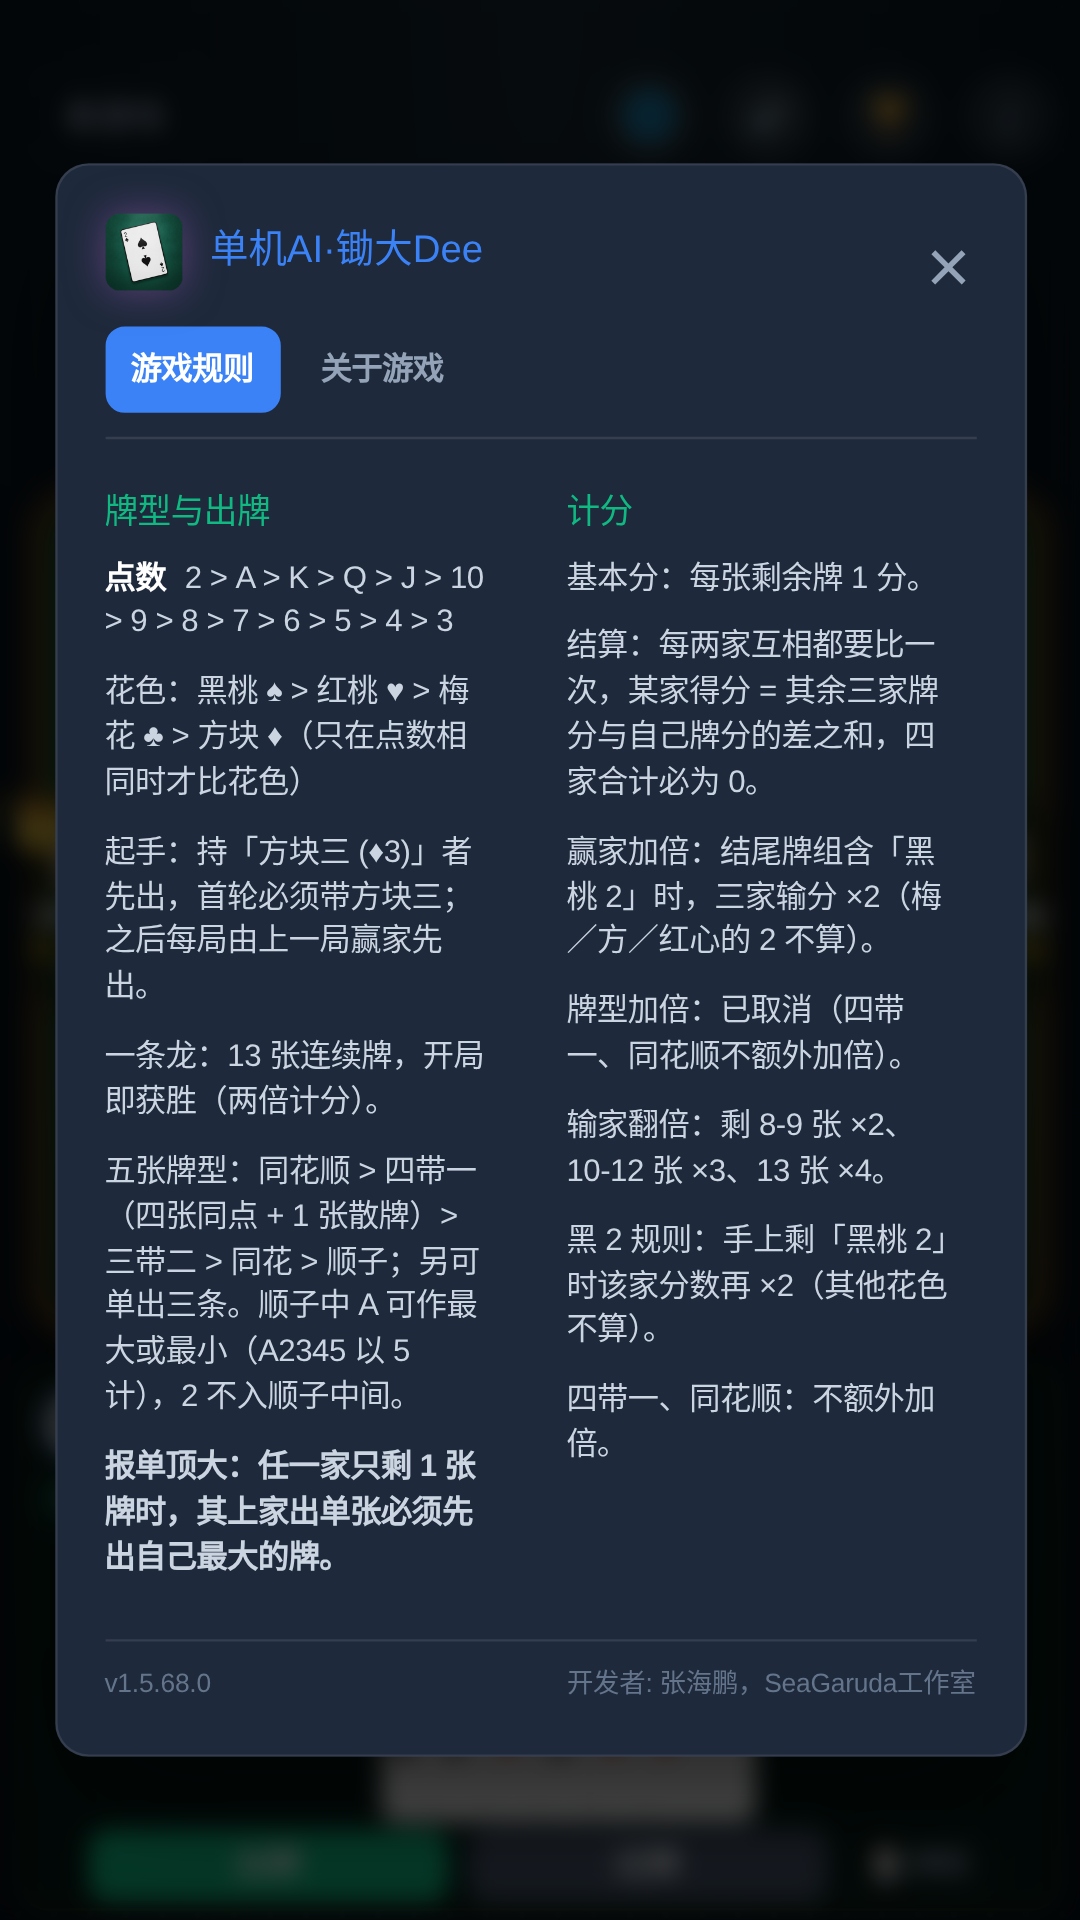
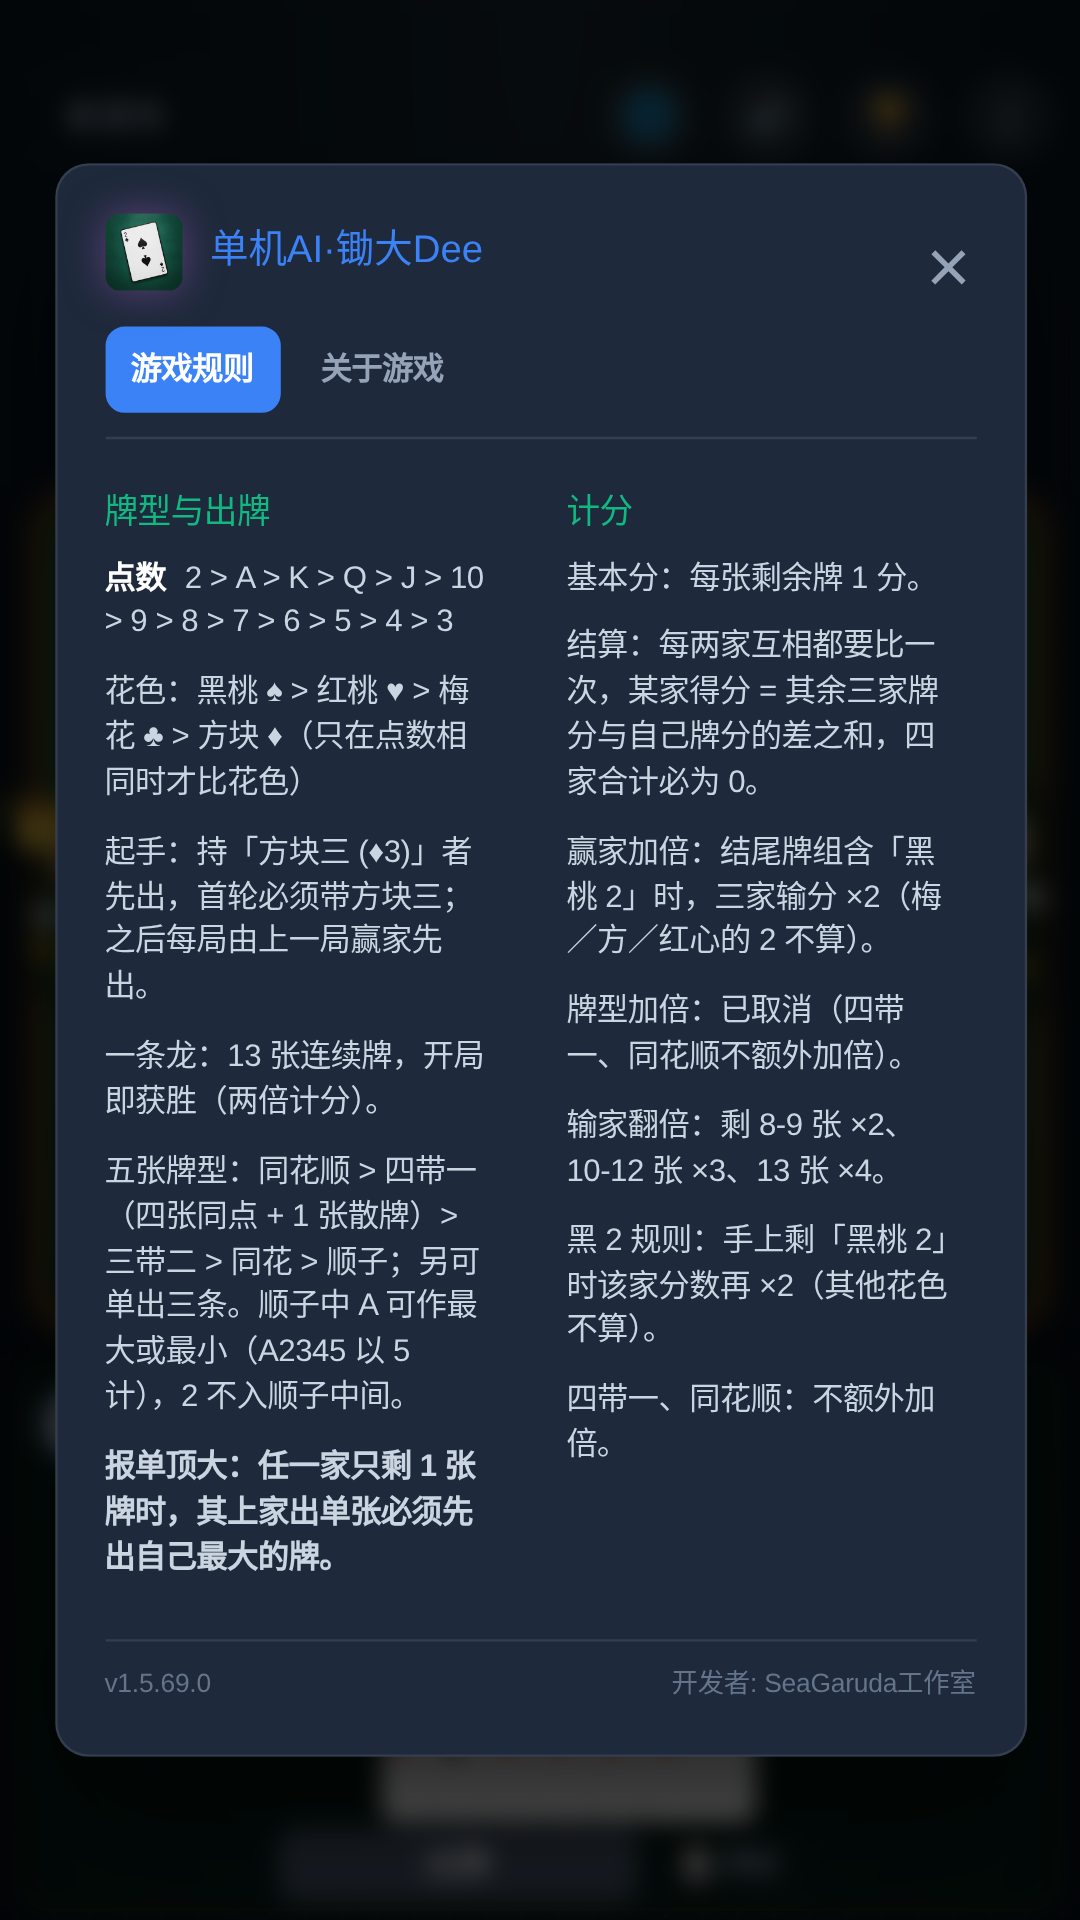
1.5.69 vc53: clean store screenshots (no real name), bump in-app version, images upload purges slot first

diff --git a/src/version.js b/src/version.js
@@ -1,6 +1,6 @@
 // Automatically generated by stamp-version.js. Do not edit.
 window.AppVersionInfo = {
-  version: "1.5.68",
-  buildVersion: "1.5.68.0",
+  version: "1.5.69",
+  buildVersion: "1.5.69.0",
   author: "SeaGaruda"
 };

diff --git a/www/src/version.js b/www/src/version.js
@@ -1,6 +1,6 @@
 // Automatically generated by stamp-version.js. Do not edit.
 window.AppVersionInfo = {
-  version: "1.5.68",
-  buildVersion: "1.5.68.0",
+  version: "1.5.69",
+  buildVersion: "1.5.69.0",
   author: "SeaGaruda"
 };

diff --git a/scripts/gplay-upload-images.py b/scripts/gplay-upload-images.py
@@ -166,6 +166,16 @@ def main():
             log(f'{loc}: 没有 images 目录，跳过')
             continue
         for itype, files in slots:
+            # Play 的 images.upload 是「追加」语义：不先删就会变成 4+4=8 张。
+            # 每次上传前先清空该槽位，保证「本地几张 = 线上几张」且顺序与本地一致。
+            st, cur = call('GET', f'{API}/applications/{PKG}/edits/{eid}/listings/{loc}/{itype}')
+            old = cur.get('images', []) if isinstance(cur, dict) else []
+            for img in old:
+                iid = img.get('id')
+                if iid:
+                    call('DELETE', f'{API}/applications/{PKG}/edits/{eid}/listings/{loc}/{itype}/{iid}')
+            if old:
+                log(f'  {loc}/{itype}: purged {len(old)} old image(s)')
             for f in files:
                 data = open(f, 'rb').read()
                 ct = 'image/png' if f.lower().endswith('.png') else 'image/jpeg'
